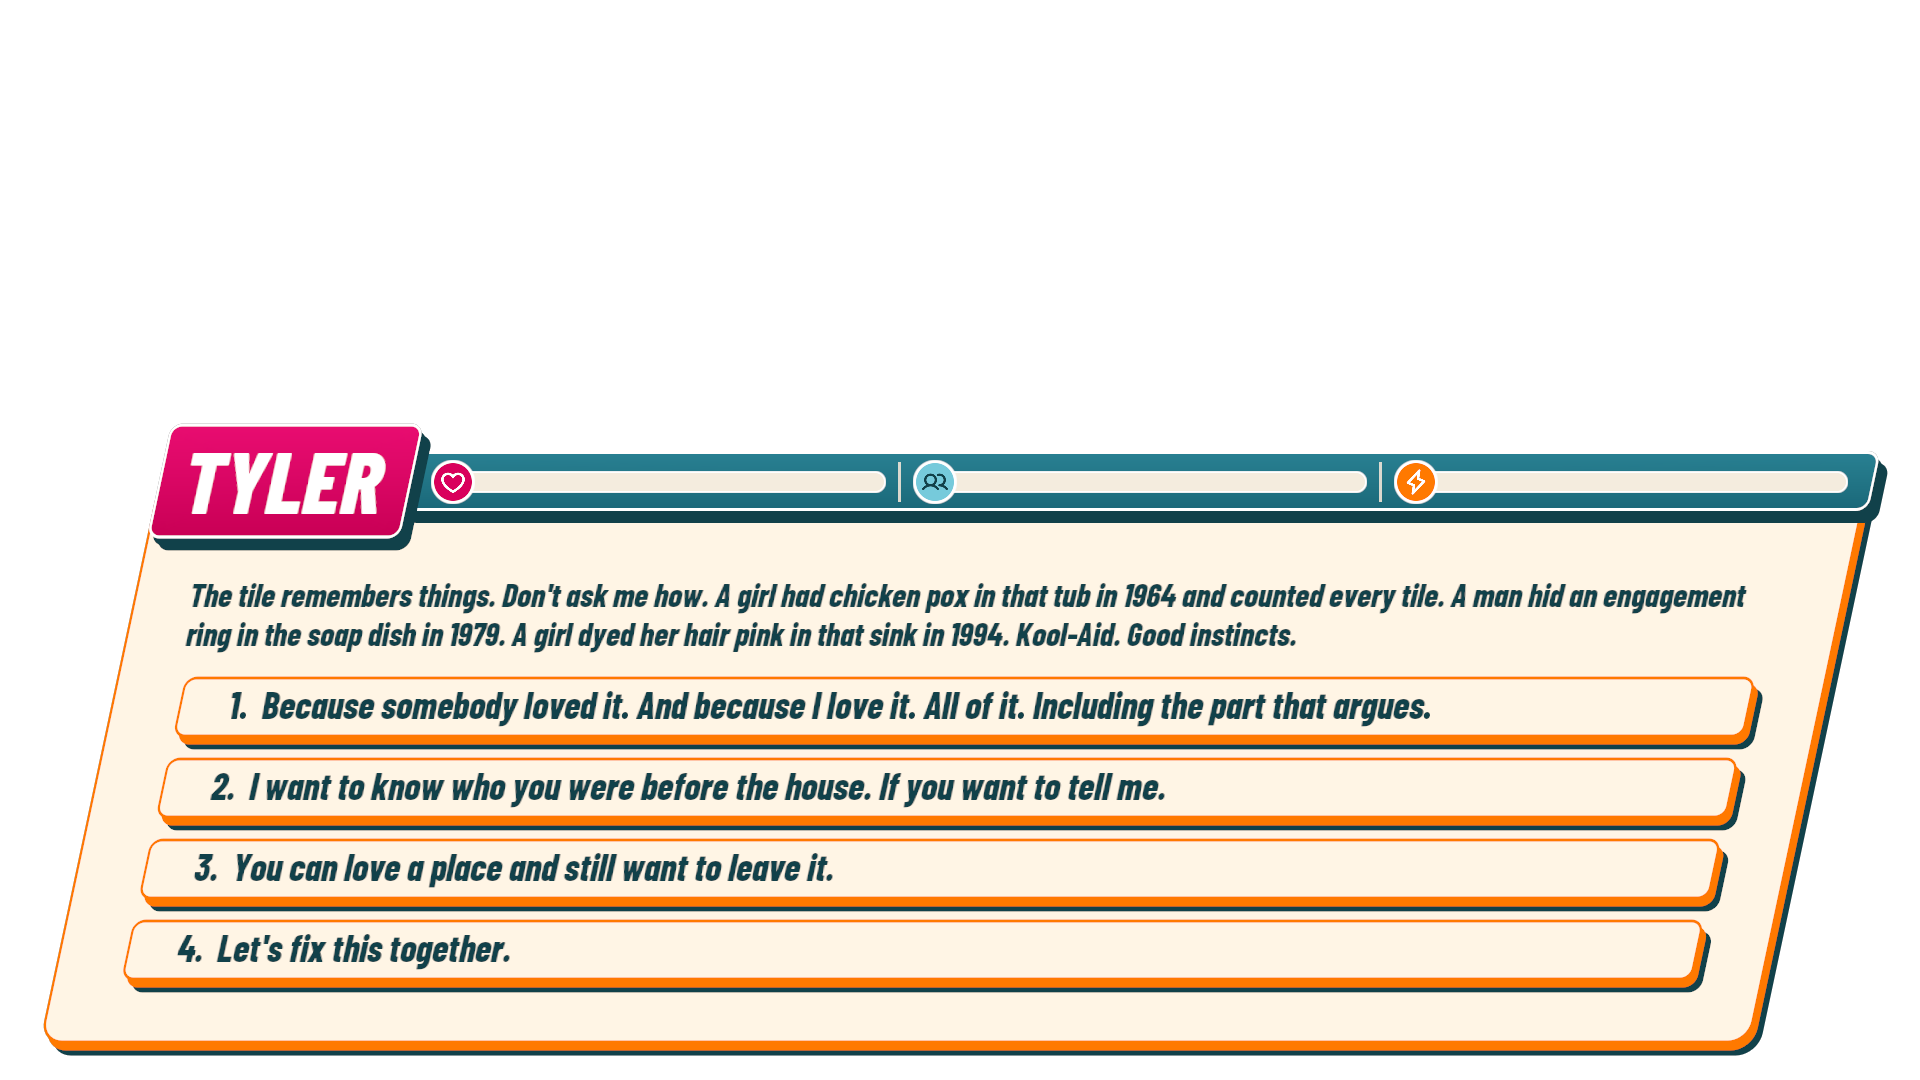
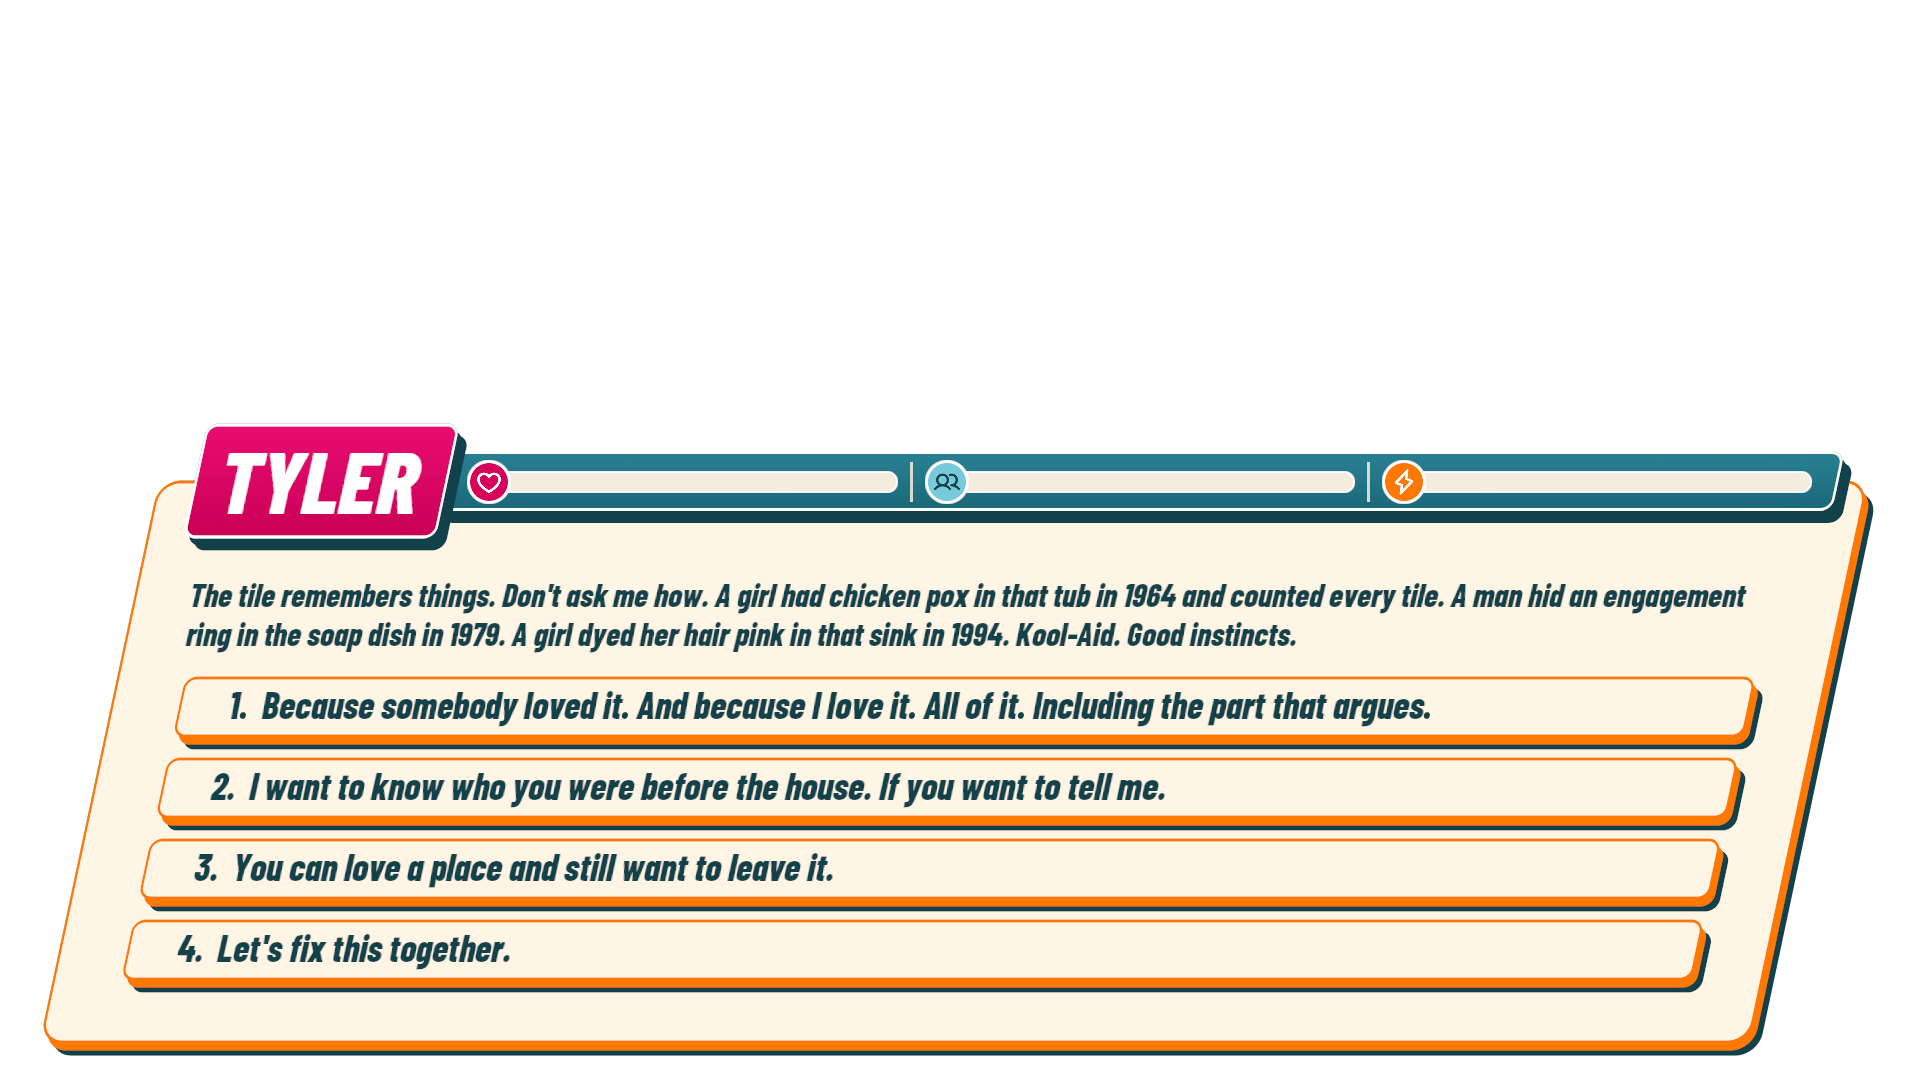
Inset dialogue header like the popup headers

diff --git a/Source/ICanFixHim/UI/FixHimDialogueWidget.cpp b/Source/ICanFixHim/UI/FixHimDialogueWidget.cpp
@@ -145,7 +145,7 @@ void UFixHimDialogueWidget::BuildUI()
 	NameSlot->SetHorizontalAlignment(HAlign_Left);
 	NameSlot->SetVerticalAlignment(VAlign_Center);
 
-	PanelSize->AddChild(MakeHeaderedSurface(Panel, Header, FMargin(32, 20, 48, 30), 0.f));
+	PanelSize->AddChild(MakeHeaderedSurface(Panel, Header, FMargin(32, 20, 48, 30)));
 	UHorizontalBox *Row = WidgetTree->ConstructWidget<UHorizontalBox>();
 	Panel->SetContent(Row);
 
